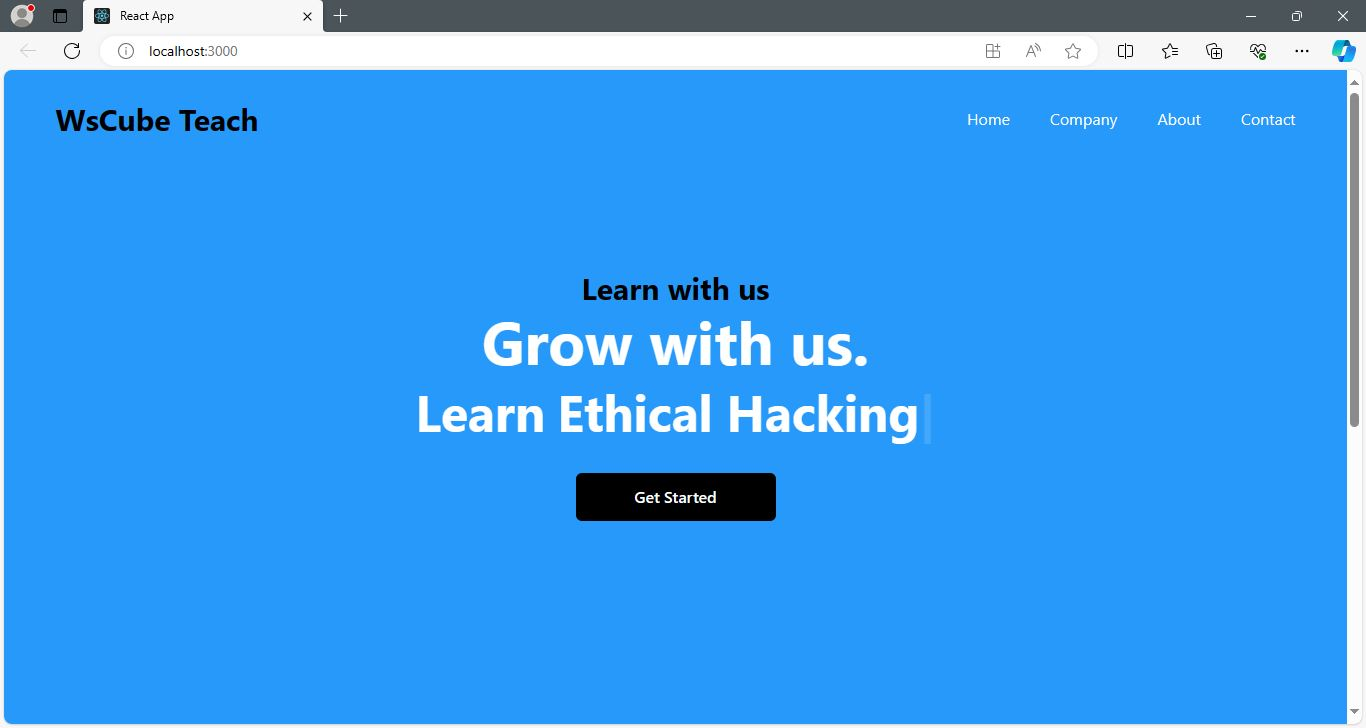
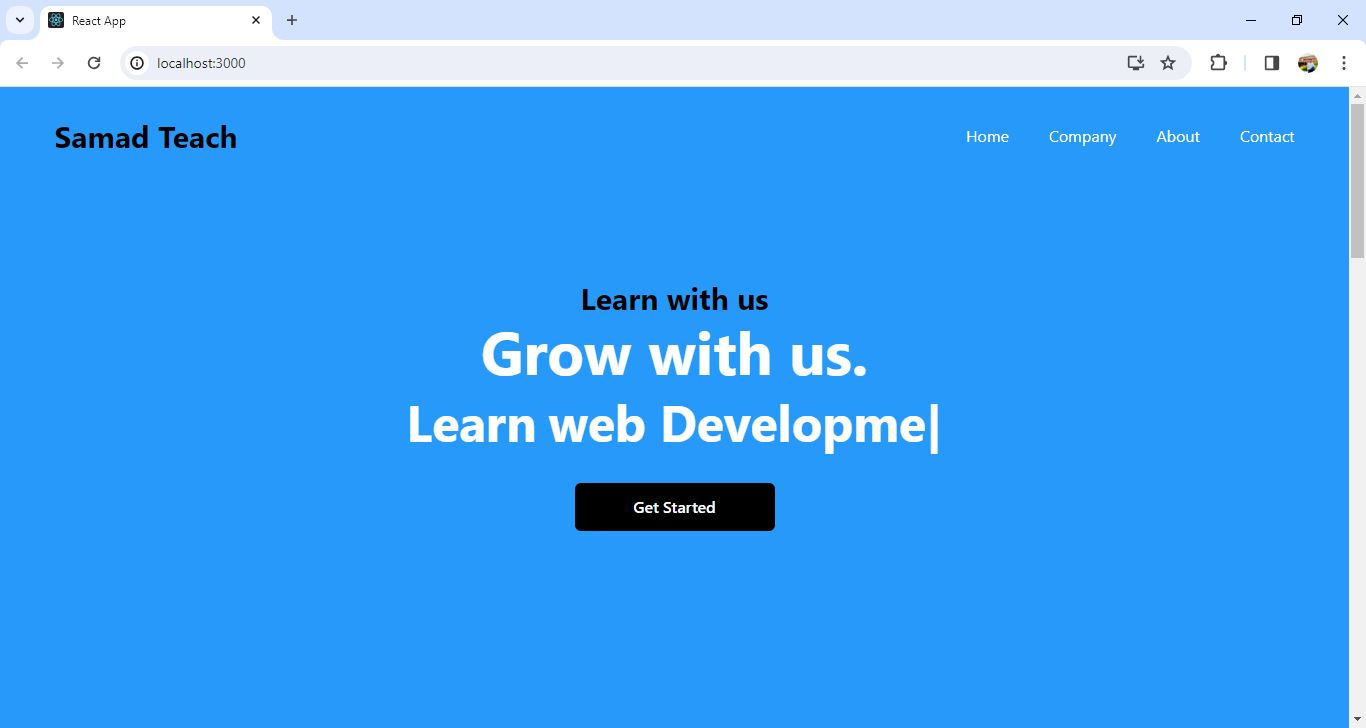
Footer

diff --git a/tailwind-wsucbe-app/src/Components/Footer.jsx b/tailwind-wsucbe-app/src/Components/Footer.jsx
@@ -1,0 +1,65 @@
+import React from 'react';
+import {
+  FaDribbbleSquare,
+  FaFacebookSquare,
+  FaGithubSquare,
+  FaInstagram,
+  FaTwitterSquare,
+} from 'react-icons/fa';
+
+const Footer = () => {
+  return (
+    <div className='w-full bg-[#2699fb]  py-16 px-4 grid lg:grid-cols-3  text-white'>
+      <div>
+        <h1 className='w-full text-3xl font-bold text-black'>Samad Tech.</h1>
+        <p className='py-4'>Lorem, ipsum dolor sit amet consectetur adipisicing elit. Id odit ullam iste repellat consequatur libero reiciendis, blanditiis accusantium.</p>
+        <div className='flex justify-between md:w-[75%] my-6'>
+          <FaFacebookSquare size={30} />
+          <FaInstagram size={30} />
+          <FaTwitterSquare size={30} />
+          <FaGithubSquare size={30} />
+        </div>
+      </div>
+      <div className='lg:col-span-2 flex justify-between mt-6'>
+        <div>
+          <h6 className='font-medium text-black'>Solutions</h6>
+          <ul>
+            <li className='py-2 text-sm'>Analytics</li>
+            <li className='py-2 text-sm'>Marketing</li>
+            <li className='py-2 text-sm'>Commerce</li>
+            <li className='py-2 text-sm'>Insights</li>
+          </ul>
+        </div>
+        <div>
+          <h6 className='font-medium text-black'>Support</h6>
+          <ul>
+            <li className='py-2 text-sm'>Pricing</li>
+            <li className='py-2 text-sm'>Documentation</li>
+            <li className='py-2 text-sm'>Guides</li>
+            <li className='py-2 text-sm'>API Status</li>
+          </ul>
+        </div>
+        <div>
+          <h6 className='font-medium text-black'>Company</h6>
+          <ul>
+            <li className='py-2 text-sm'>About</li>
+            <li className='py-2 text-sm'>Blog</li>
+            <li className='py-2 text-sm'>Jobs</li>
+            <li className='py-2 text-sm'>Press</li>
+            <li className='py-2 text-sm'>Careers</li>
+          </ul>
+        </div>
+        <div>
+          <h6 className='font-medium text-black'>Legal</h6>
+          <ul>
+            <li className='py-2 text-sm'>Claim</li>
+            <li className='py-2 text-sm'>Policy</li>
+            <li className='py-2 text-sm'>Terms</li>
+          </ul>
+        </div>
+      </div>
+    </div>
+  );
+};
+
+export default Footer;

diff --git a/tailwind-wsucbe-app/src/App.jsx b/tailwind-wsucbe-app/src/App.jsx
@@ -4,6 +4,7 @@ import Banner from "./Components/Banner";
 import Expert from "./Components/Expert";
 import Newsletter from "./Components/Newsletter";
 import Cards from "./Components/Card";
+import Footer from "./Components/Footer";
 function App() {
   return (
     <>
@@ -12,6 +13,7 @@ function App() {
       <Expert />
       <Newsletter />
       <Cards />
+      <Footer />
 
       {/* //   <div className="bg-blue-500 text-white p-4">
   //   This is a component styled with Tailwind CSS!

diff --git a/tailwind-wsucbe-app/src/Components/Header.jsx b/tailwind-wsucbe-app/src/Components/Header.jsx
@@ -6,7 +6,7 @@ const Header = () => {
   return (
     <div className="bg-[#2699fb] p-4">
       <div className="max-w-[1240px] py-[15px] items-center  flex justify-between mx-auto">
-        <div className="text-3xl font-bold">WsCube Teach</div>
+        <div className="text-3xl font-bold">Samad Teach</div>
         {tooggle ? (
           <MdOutlineMenu
             onClick={() => setToggle(!tooggle)}
